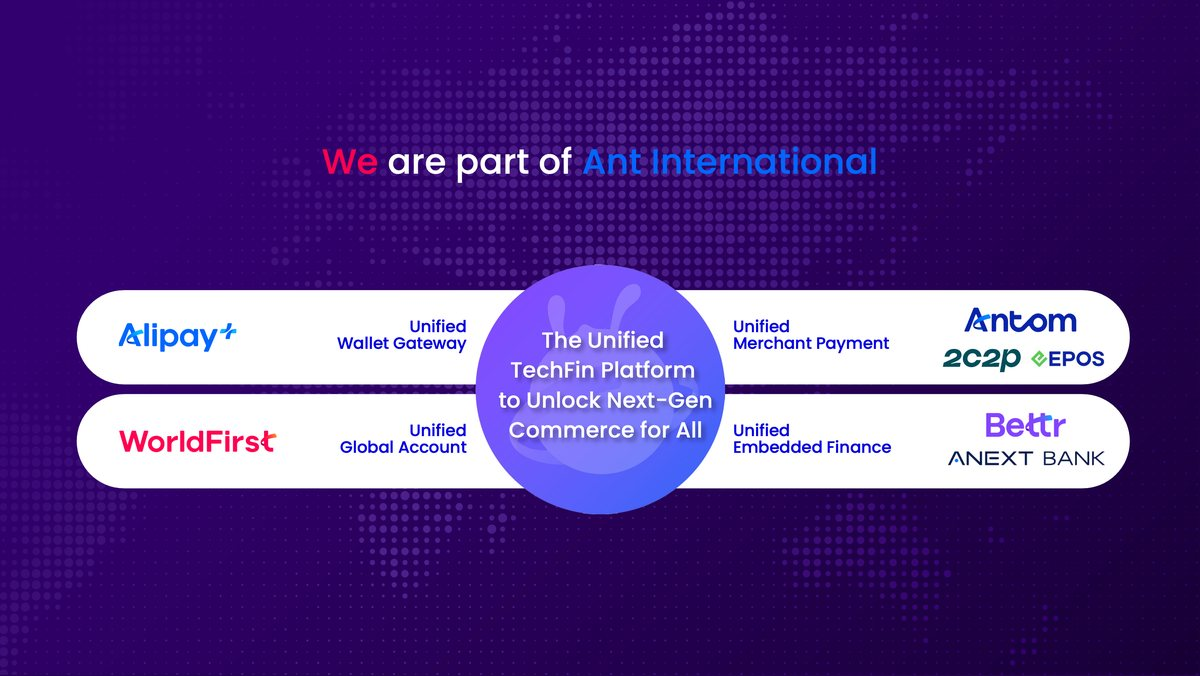
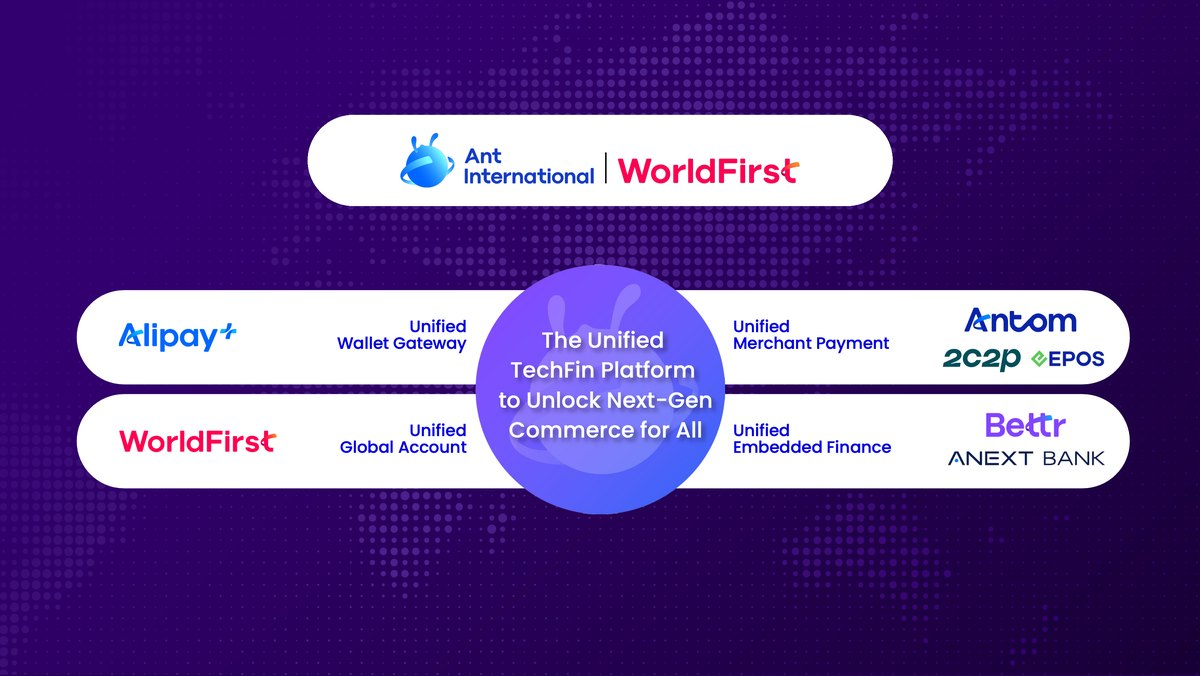
Use BU crest and A&I|WorldFirst lockup in About us, add WorldFirst CTA

Changed region(s): [[0.2467, 0.1553, 0.7708, 0.3107]]

diff --git a/index.html b/index.html
@@ -467,7 +467,7 @@
 
       <article class="about">
         <div class="about-media"><img src="assets/about-bu.jpg"
-             alt="Bosses United" loading="lazy"
+             alt="Bosses United crest" loading="lazy"
              onerror="this.closest('.about-media').remove()"></div>
         <div class="about-body">
           <h3>Bosses United</h3>
@@ -479,13 +479,14 @@
 
       <article class="about">
         <div class="about-media"><img src="assets/antfamily.jpg"
-             alt="Ant International brand family" loading="lazy"
+             alt="Ant International | WorldFirst — the Ant International brand family" loading="lazy"
              onerror="this.closest('.about-media').remove()"></div>
         <div class="about-body">
           <h3>WorldFirst</h3>
           <p>WorldFirst, a brand of Ant International, supports Singapore&rsquo;s SMEs in simplifying key financial
           operations, including international payments, collections, currency conversions, and treasury
           management, all in a one-stop account.</p>
+          <a class="btn-solid" href="https://www.worldfirst.com/sg/" target="_blank" rel="noopener">Visit worldfirst.com &rarr;</a>
         </div>
       </article>
 
